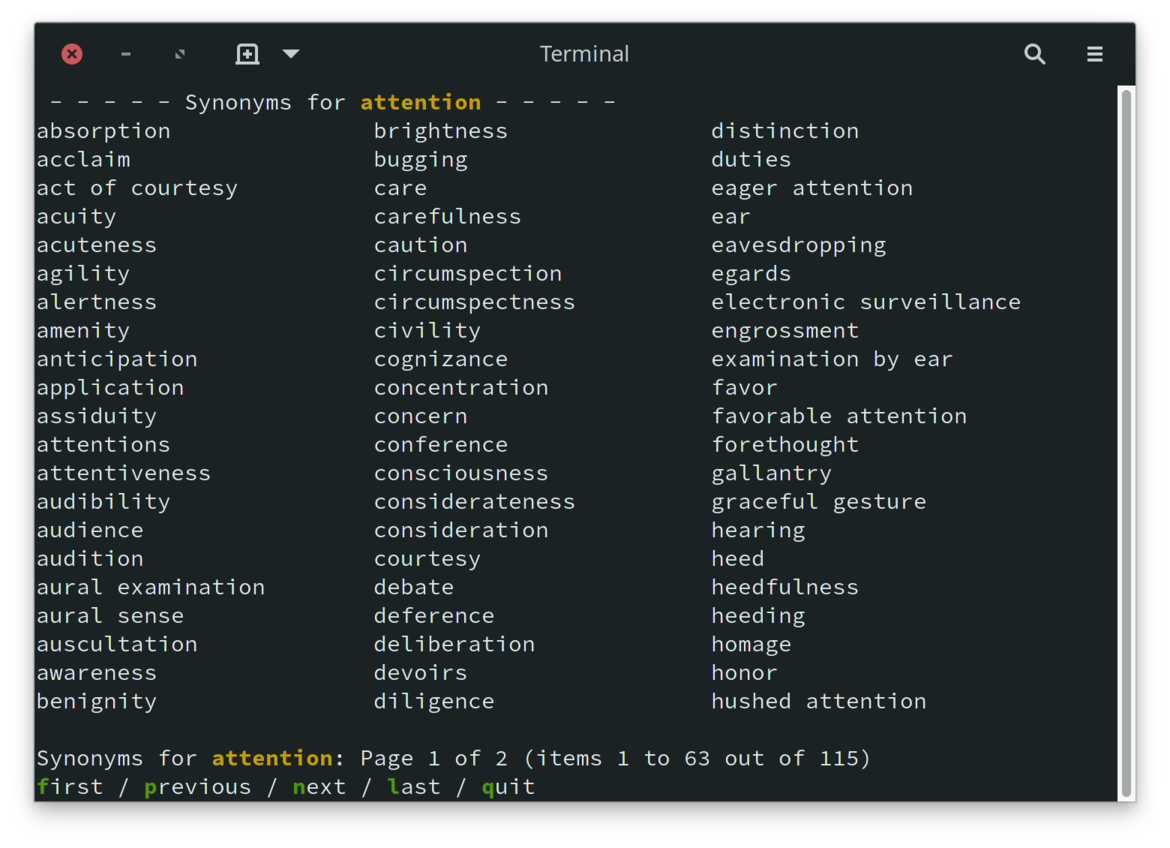
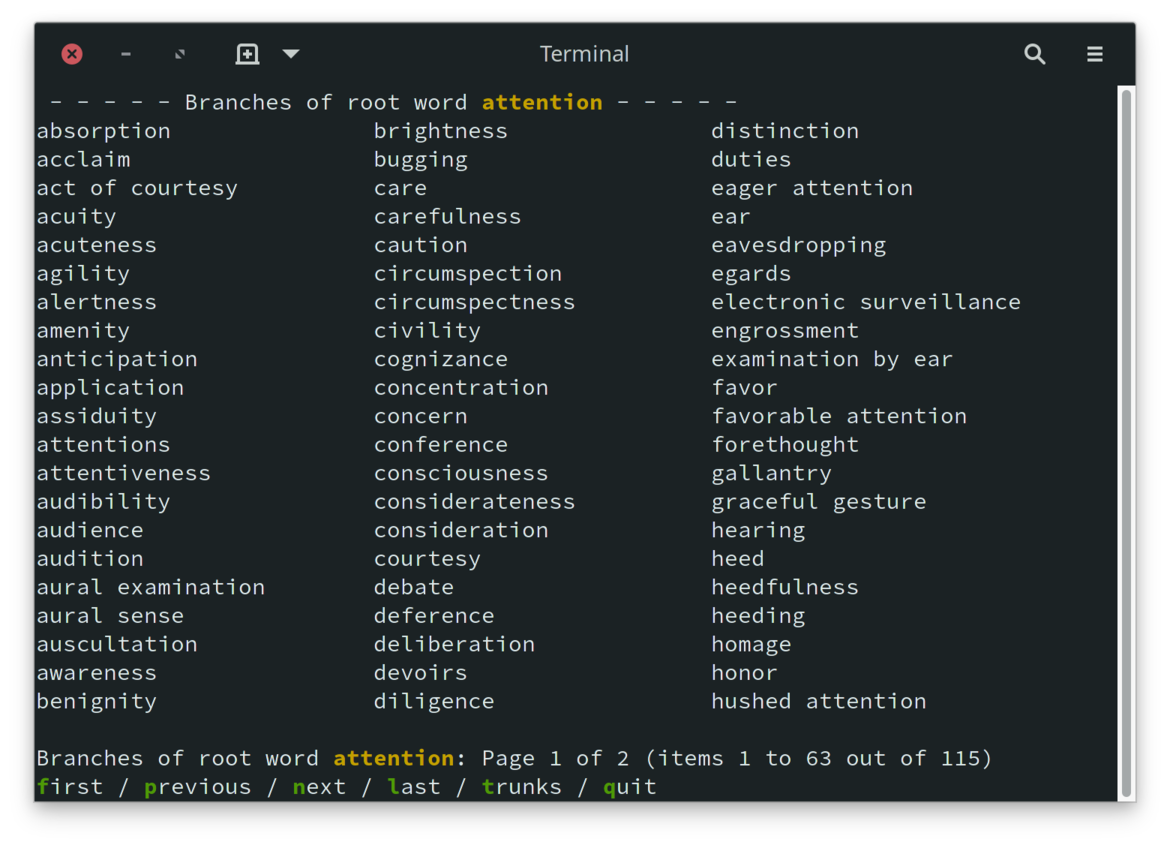
Update bitmaps and copy for new options menu.

Changed region(s): [[0.1538, 0.092, 0.5231, 0.1533], [0.0308, 0.8892, 0.5538, 0.9505], [0.5538, 0.8892, 0.8615, 0.9198]]

diff --git a/README.md b/README.md
@@ -13,6 +13,13 @@ to open and easy to scan.  It is not as well organized as [thesaurus.com],
 with synonym organized but find your perfect work in much less time
 using **th**.
 
+The words and relations in this thesaurus are taken from a public-domain
+[moby thesaurus][4].  The source consists of lines of related words,
+the first word in each line is the root or *branch* word, and the
+remaining words on the line are related *branch* words.  This thesaurus
+allows you to switch between showing a list of *branch* words of the
+requested word, or a list of *root* words that contain the requested word.
+
 **NOTE:** This project started as a platform for experimenting with
 the Berkeley Database, various object-oriented ideas in C, portable
 *makefile* design, and an idea I have about using a collection of
@@ -38,6 +45,13 @@ Use an option by clicking the key corresponding to the highlighted
 character of the option.  For example, click `n` to go to the next
 page, `p` to go back one page.  Respecting *nix convention, typing
 `q` quits the program, leaving the current set of words on screen.
+Type `t` to switch to the *trunks* display as noted above.
+
+![Branches screen](README/th_example_root.png)
+
+If the user triggers the `branches` mode, the program will display
+the list of *trunk* words that contain the target word.  Typing
+`b` will restore the original *branches* display.
 
 ## Building th
 
